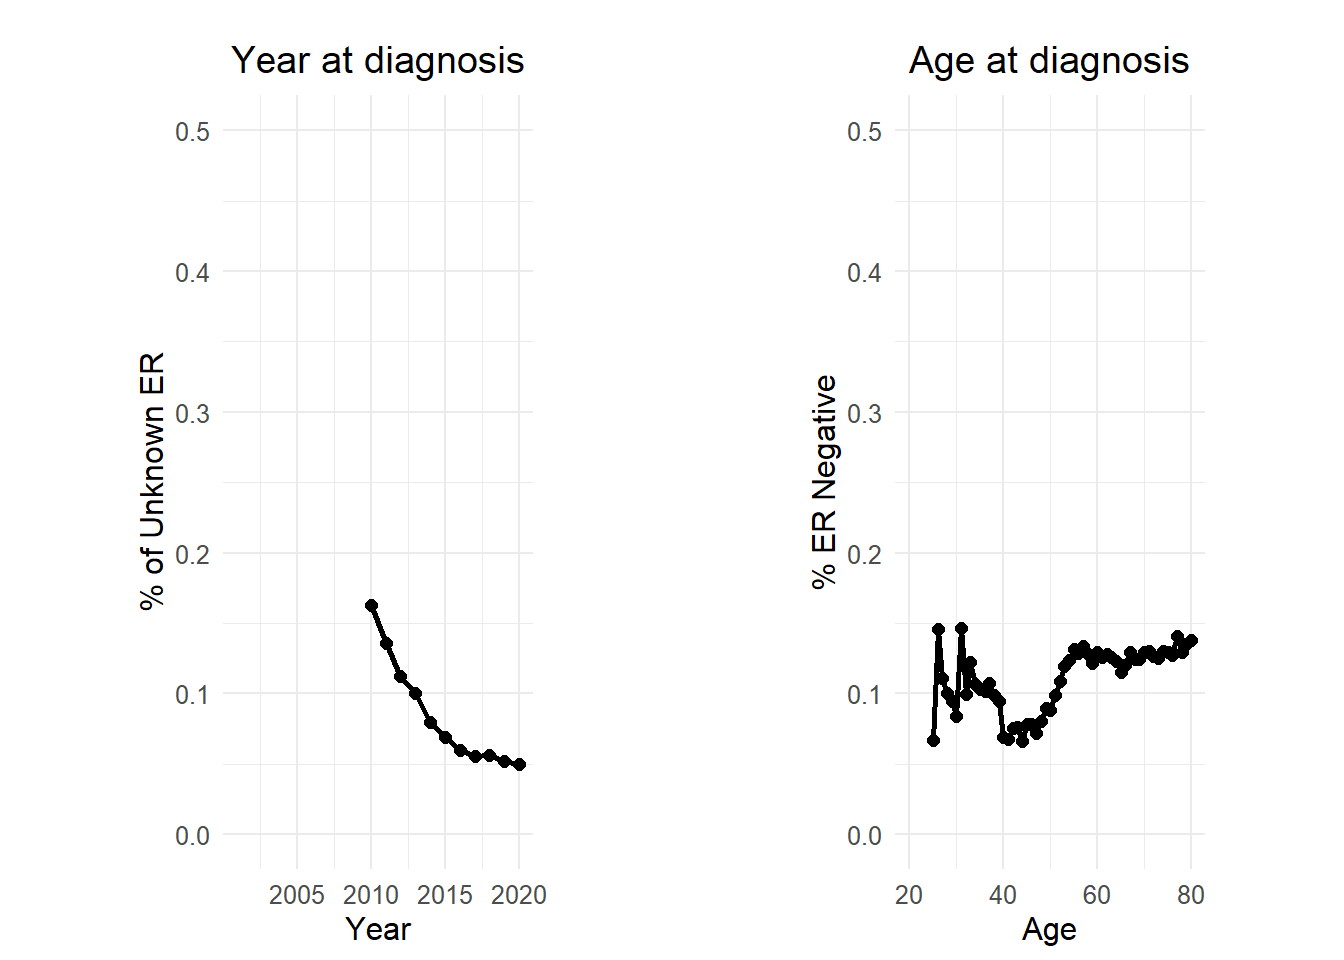
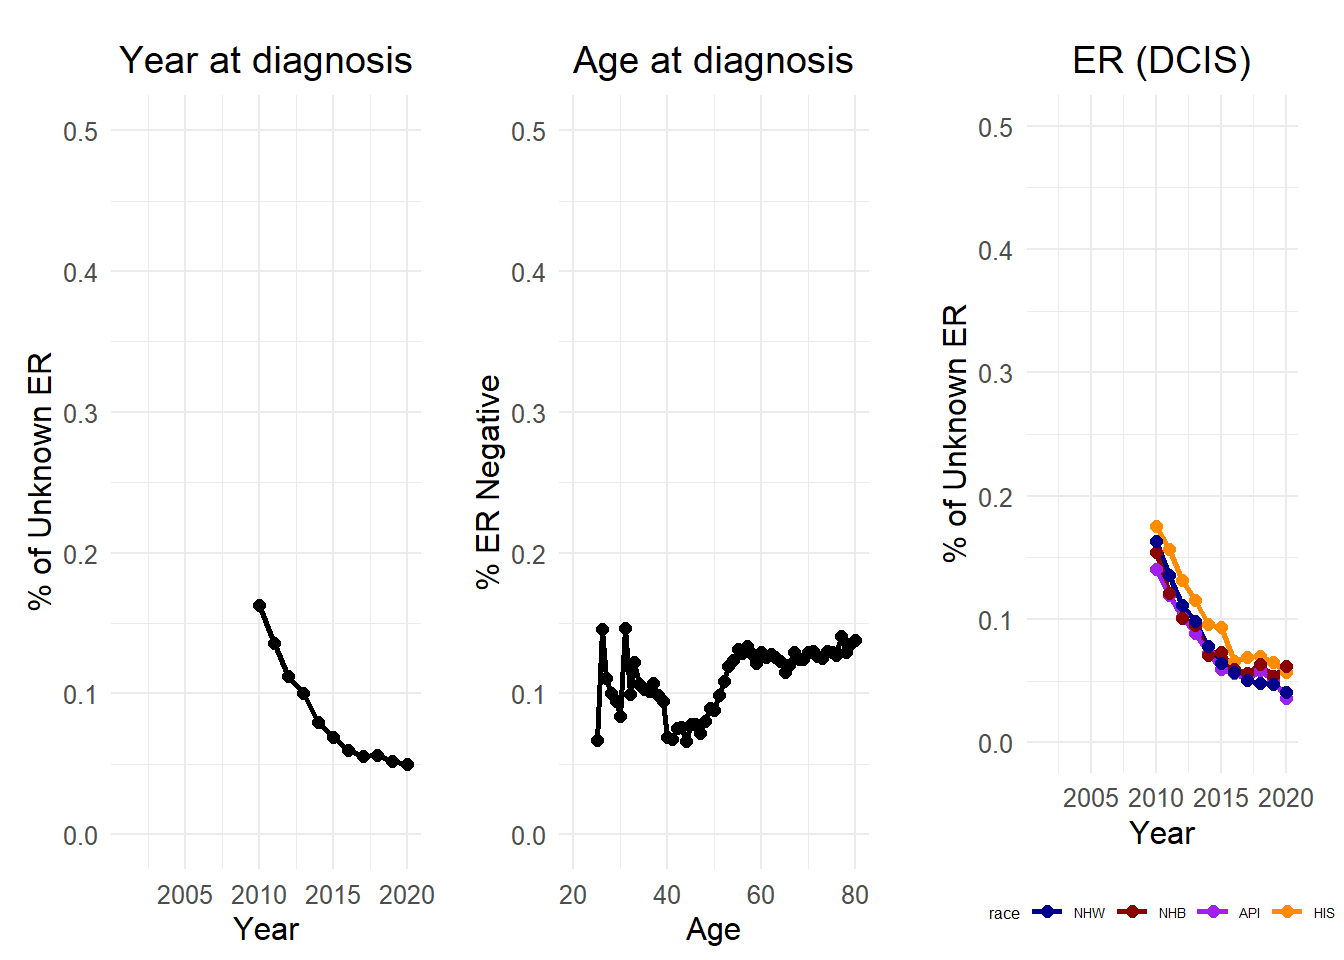
Add files via upload

diff --git a/Incidence/imputation/imputation.html b/Incidence/imputation/imputation.html
@@ -9,7 +9,7 @@
 <meta name="author" content="AMF">
 <meta name="dcterms.date" content="2024-01-31">
 
-<title>Simple Imputation - malignant breast cancer by ER using SEER 22, 2000–2020</title>
+<title>Simple Imputation - Breast cancer (IDC and DCIS) by ER using SEER 22, 2010–2020</title>
 <style>
 code{white-space: pre-wrap;}
 span.smallcaps{font-variant: small-caps;}
@@ -115,7 +115,10 @@ code span.wa { color: #60a0b0; font-weight: bold; font-style: italic; } /* Warni
   <li><a href="#results" id="toc-results" class="nav-link" data-scroll-target="#results">Results</a>
   <ul class="collapse">
   <li><a href="#infiltrating-ductal-carcinoma-idc-1" id="toc-infiltrating-ductal-carcinoma-idc-1" class="nav-link" data-scroll-target="#infiltrating-ductal-carcinoma-idc-1">Infiltrating Ductal Carcinoma (IDC)</a></li>
-  <li><a href="#ductal-carcinoma-in-situ-dcis-1" id="toc-ductal-carcinoma-in-situ-dcis-1" class="nav-link" data-scroll-target="#ductal-carcinoma-in-situ-dcis-1">Ductal Carcinoma In Situ (DCIS)</a></li>
+  <li><a href="#ductal-carcinoma-in-situ-dcis-1" id="toc-ductal-carcinoma-in-situ-dcis-1" class="nav-link" data-scroll-target="#ductal-carcinoma-in-situ-dcis-1">Ductal Carcinoma In Situ (DCIS)</a>
+  <ul class="collapse">
+  <li><a href="#bullet-points" id="toc-bullet-points" class="nav-link" data-scroll-target="#bullet-points">Bullet points</a></li>
+  </ul></li>
   </ul></li>
   <li><a href="#references" id="toc-references" class="nav-link" data-scroll-target="#references">References</a></li>
   </ul>
@@ -125,7 +128,7 @@ code span.wa { color: #60a0b0; font-weight: bold; font-style: italic; } /* Warni
 
 <header id="title-block-header" class="quarto-title-block default">
 <div class="quarto-title">
-<h1 class="title">Simple Imputation - malignant breast cancer by ER using SEER 22, 2000–2020</h1>
+<h1 class="title">Simple Imputation - Breast cancer (IDC and DCIS) by ER using SEER 22, 2010–2020</h1>
 </div>
 
 
@@ -149,7 +152,7 @@ code span.wa { color: #60a0b0; font-weight: bold; font-style: italic; } /* Warni
     <div>
     <div class="quarto-title-meta-heading">Modified</div>
     <div class="quarto-title-meta-contents">
-      <p class="date-modified">February 19, 2024</p>
+      <p class="date-modified">February 20, 2024</p>
     </div>
   </div>
     
@@ -307,10 +310,14 @@ N^C_{at} = (1 - \hat{\pi}_{at}) \times I^0_{at} \tag{4}
 <p><img src="imputation_files/figure-html/unnamed-chunk-9-1.png" class="img-fluid" width="672"></p>
 </div>
 </div>
+<section id="bullet-points" class="level3">
+<h3 class="anchored" data-anchor-id="bullet-points">Bullet points</h3>
+</section>
 </section>
 </section>
 <section id="references" class="level1">
 <h1>References</h1>
+<p>Anderson WF, Katki HA, Rosenberg PS. Incidence of Breast Cancer in the United States: Current and Future Trends. J Natl Cancer Inst. 2011 Sep 21;103(18):1397-1402. doi: 10.1093/jnci/djr257. Epub 2011 Jul 13. PMID: 21753181; PMCID: PMC3176776.</p>
 </section>
 
 </main>
